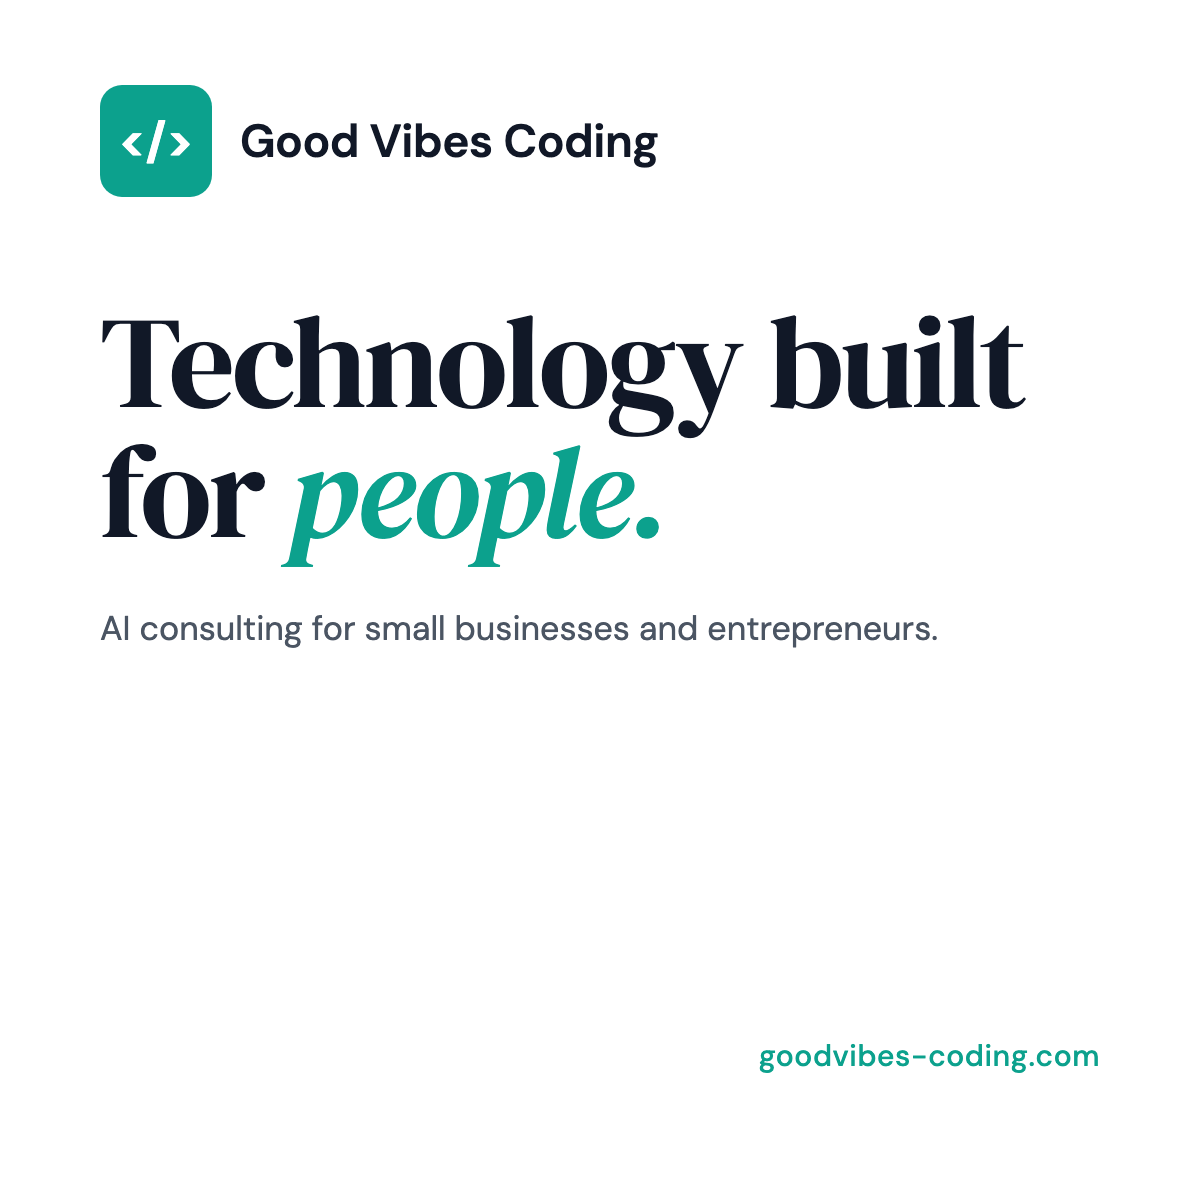
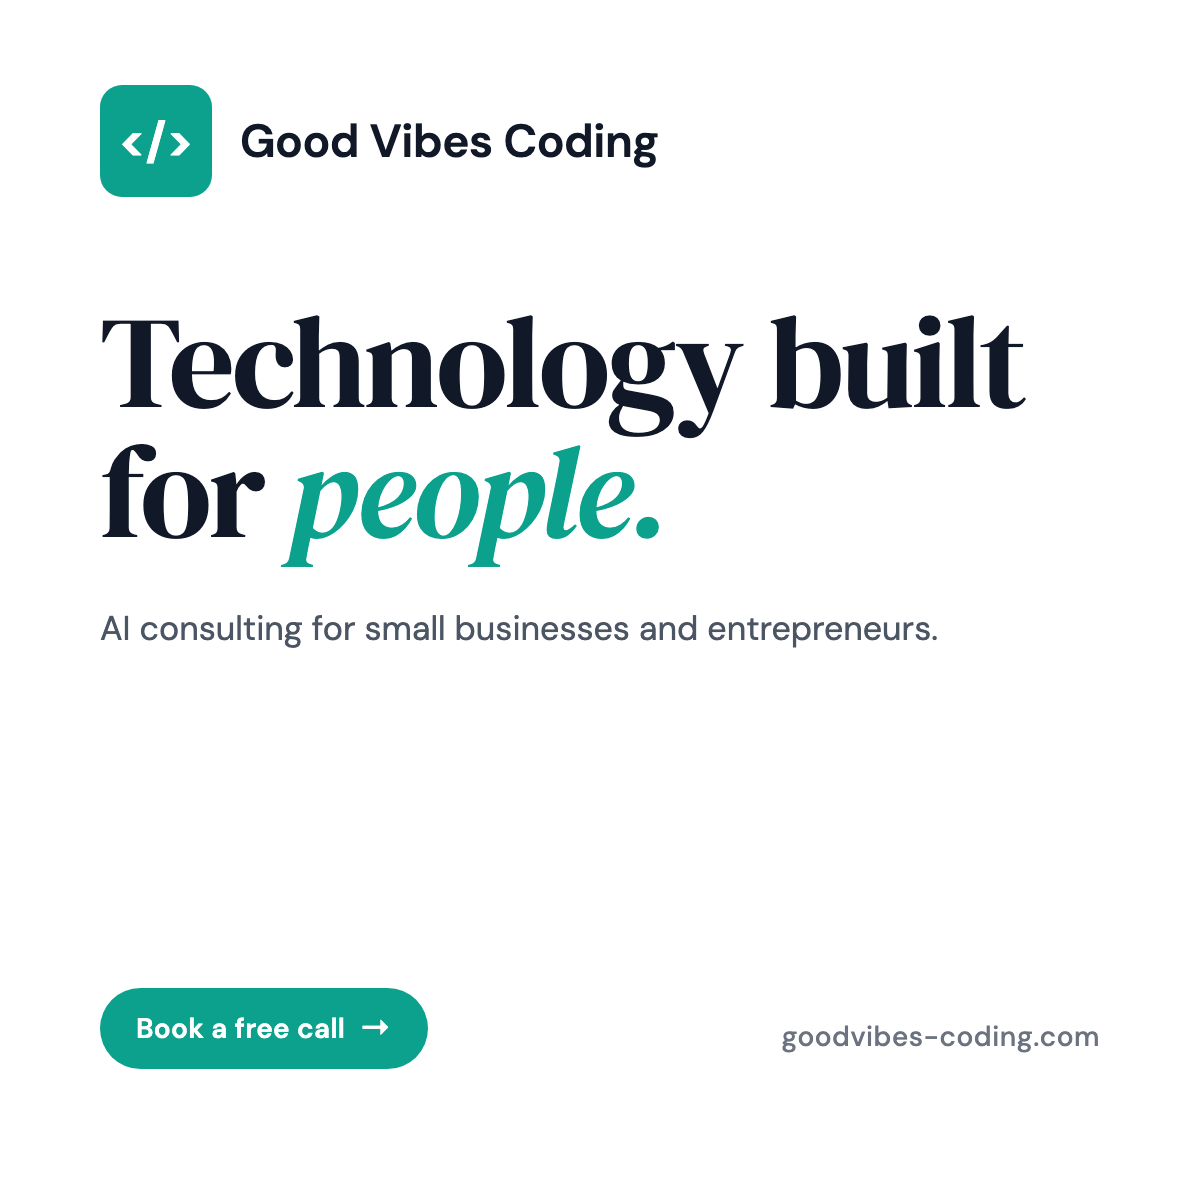
Tune OG metadata per opengraph.xyz validator (#6)
Three fixes addressing validator feedback:

1. Title 47 -> 52 chars (target 50-60):
   "Good Vibes Coding — AI Consulting for Small Business"
   — keywords moved forward, "Technology Built for People" was a
   brand tagline not a search query.

2. Description 172 -> 125 chars (target 110-160):
   Trimmed the "no enterprise price tag required" clause; the
   remaining copy keeps the three differentiators (spend less,
   automate, punch above weight).

3. Added CTA pill in OG image:
   "Book a free call →" in brand teal at bottom-left of both
   og.png (1200x630) and og-square.png (1200x1200). LinkedIn
   feed scrolls get ~1s; a visible CTA lifts click-through.

Changed region(s): [[0.0617, 0.8017, 0.37, 0.8942], [0.6167, 0.8325, 0.925, 0.8942]]

diff --git a/index.html b/index.html
@@ -11,19 +11,19 @@
 
   <meta property="og:type" content="website">
   <meta property="og:site_name" content="Good Vibes Coding">
-  <meta property="og:title" content="Good Vibes Coding — Technology Built for People">
-  <meta property="og:description" content="AI consulting for small businesses and entrepreneurs. We help you spend less, automate the boring stuff, and punch way above your weight — no enterprise price tag required.">
+  <meta property="og:title" content="Good Vibes Coding — AI Consulting for Small Business">
+  <meta property="og:description" content="AI consulting for small businesses and entrepreneurs. Spend less, automate the boring stuff, and punch way above your weight.">
   <meta property="og:url" content="https://goodvibes-coding.com/">
   <meta property="og:image" content="https://goodvibes-coding.com/og.png">
   <meta property="og:image:width" content="1200">
   <meta property="og:image:height" content="630">
-  <meta property="og:image:alt" content="Good Vibes Coding — Technology built for people. AI consulting for small businesses and entrepreneurs.">
+  <meta property="og:image:alt" content="Good Vibes Coding — Technology built for people. AI consulting for small businesses and entrepreneurs. Book a free call at goodvibes-coding.com.">
 
   <meta name="twitter:card" content="summary_large_image">
-  <meta name="twitter:title" content="Good Vibes Coding — Technology Built for People">
-  <meta name="twitter:description" content="AI consulting for small businesses and entrepreneurs. No enterprise price tag required.">
+  <meta name="twitter:title" content="Good Vibes Coding — AI Consulting for Small Business">
+  <meta name="twitter:description" content="AI consulting for small businesses and entrepreneurs. Spend less, automate the boring stuff, and punch way above your weight.">
   <meta name="twitter:image" content="https://goodvibes-coding.com/og.png">
-  <meta name="twitter:image:alt" content="Good Vibes Coding — Technology built for people.">
+  <meta name="twitter:image:alt" content="Good Vibes Coding — Technology built for people. Book a free call.">
 
   <link rel="icon" href="/favicon.ico?v=2" sizes="any">
   <link rel="icon" type="image/svg+xml" href="/favicon.svg?v=2">
